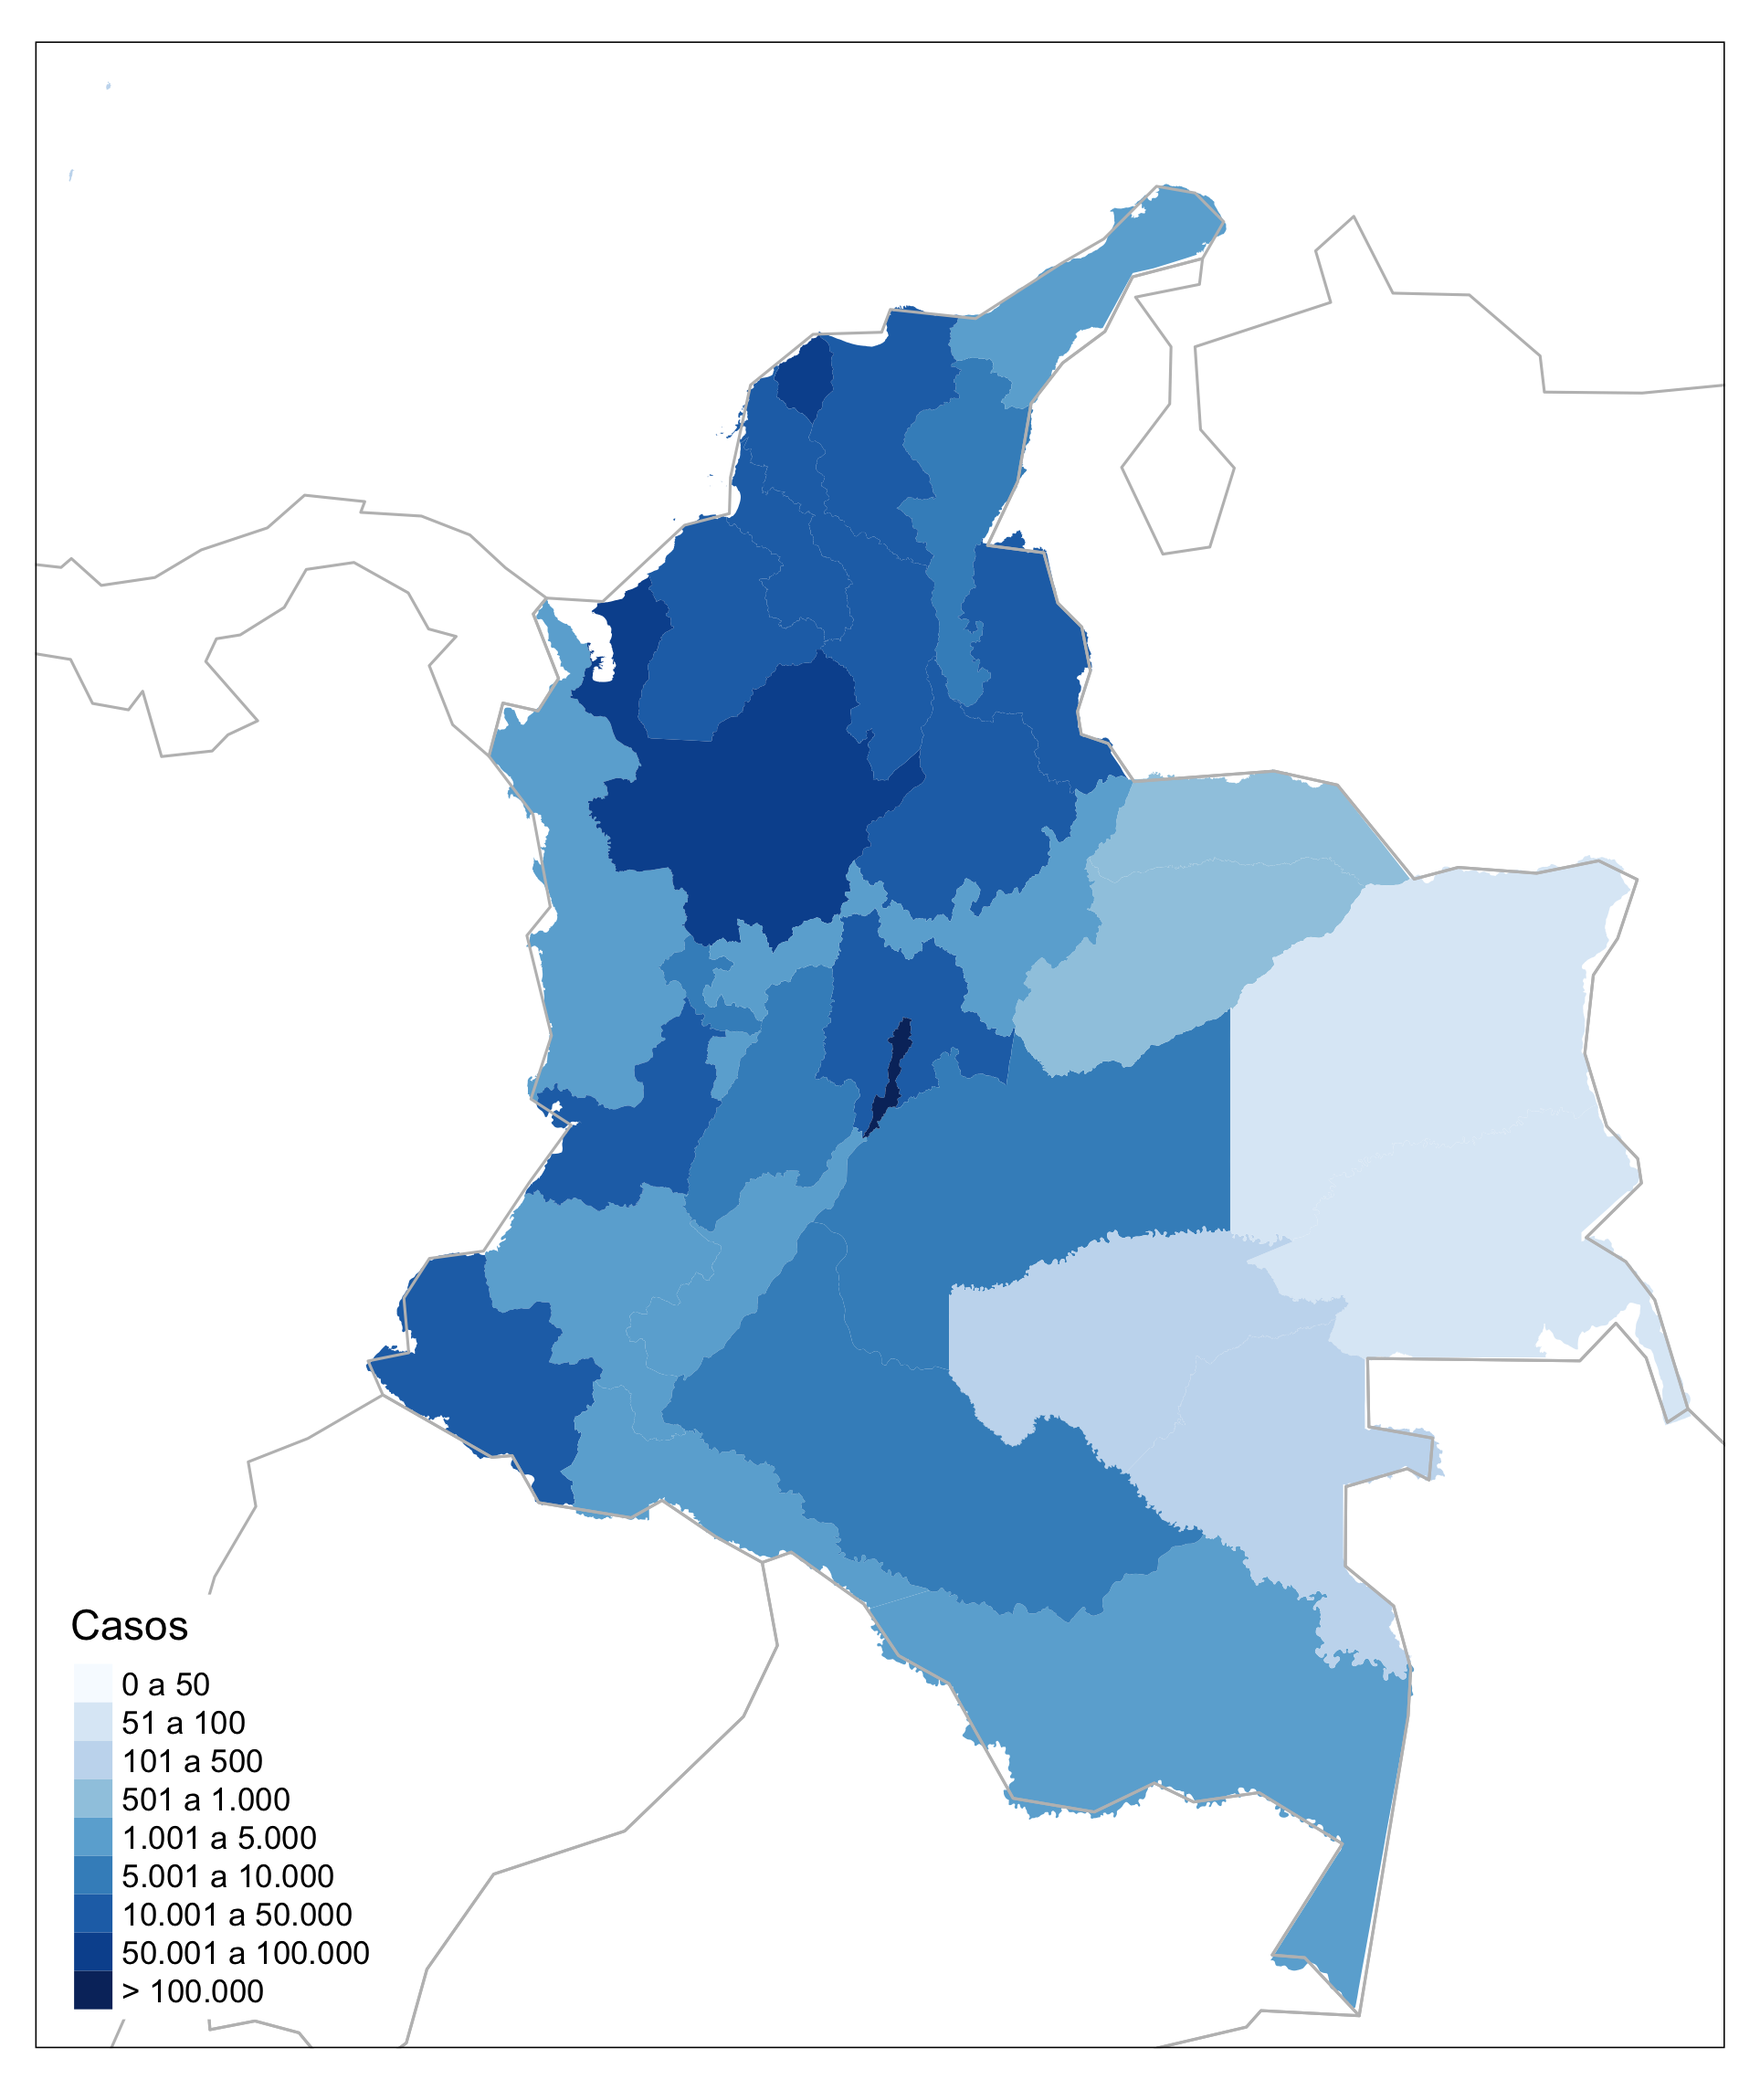
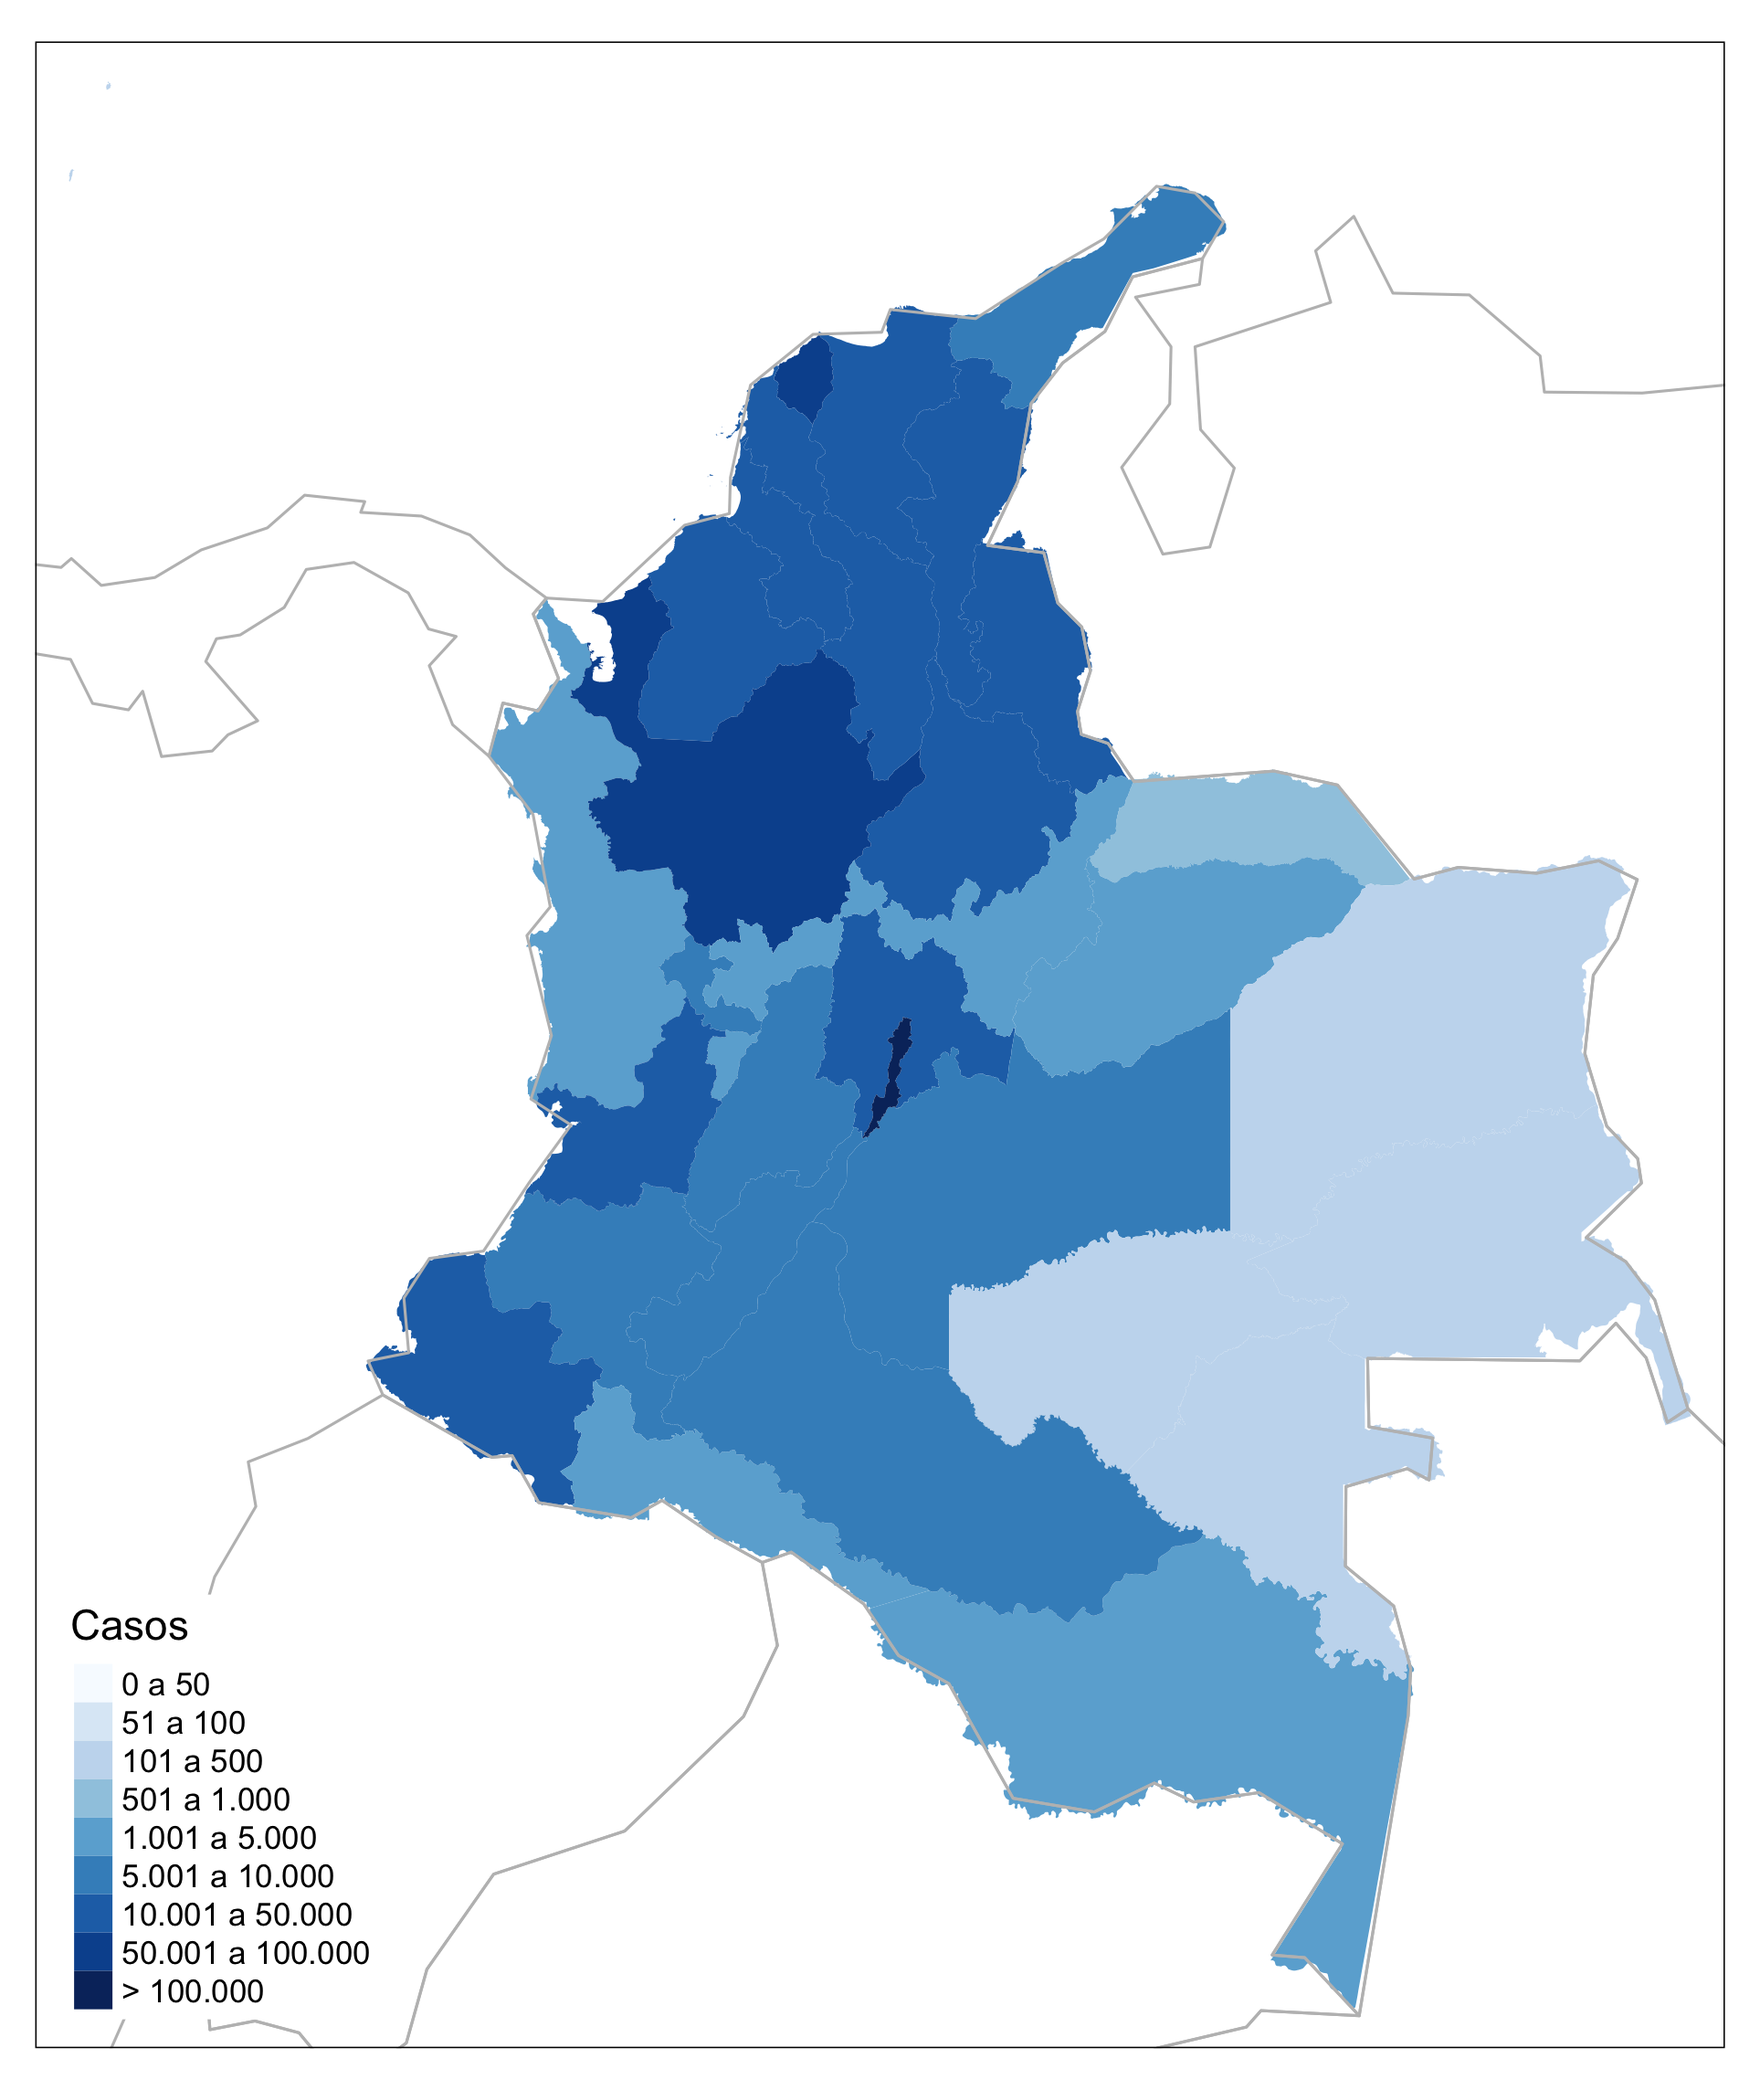
necesitamos más texto para explicar y separar por regiones, ciudades más importantes.

Changed region(s): [[0.5605, 0.4034, 0.9652, 0.6827], [0.2802, 0.5275, 0.4982, 0.6827], [0.4982, 0.0931, 0.7161, 0.3413]]

diff --git a/README.md b/README.md
@@ -5,11 +5,15 @@
 
 <!-- badges: end -->
 
-# Datos de COVID-19 para Colombia por departamentos y municipios hasta 29/08/2020
+# Datos de COVID-19 para Colombia por departamentos y municipios hasta 03/09/2020
 
 <img src="./figs/deptos.png" width="350" /><img src="./figs/mpos.png" width="350" />
 
-# Corrección de atrasos por *nowcasting* bayesiano
+# Número de casos por incio de los síntomas
+
+<img src="./figs/casos_diarios.png" width="600" />
+
+# Corrección de atrasos por *nowcasting* bayesiano (Mc Gough *et al* 2020)
 
 Para saber más sobre el análisis de corrección de atrasos de
 notificación por *nowcasting* bayesiano, visite la página del
@@ -19,4 +23,12 @@ independiente de investigadores de diversas universidades de Brasil y
 del mundo, que realiza análisis relativos al estado de la pandemia en
 Brasil.
 
-<img src="./figs/Nowcasting.png" width="700" />
+<img src="./figs/Nowcasting.png" width="600" />
+
+# Referencia
+
+McGough, S. F. et al. (2020) ‘Nowcasting by Bayesian Smoothing: A
+flexible, generalizable model for real-time epidemic tracking’, PLOS
+Computational Biology, 16(4), p. e1007735. doi:
+10.1371/journal.pcbi.1007735.
+<https://journals.plos.org/ploscompbiol/article?id=10.1371/journal.pcbi.1007735>
